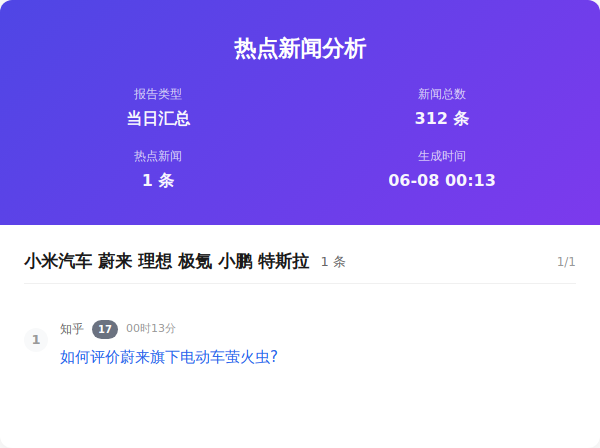
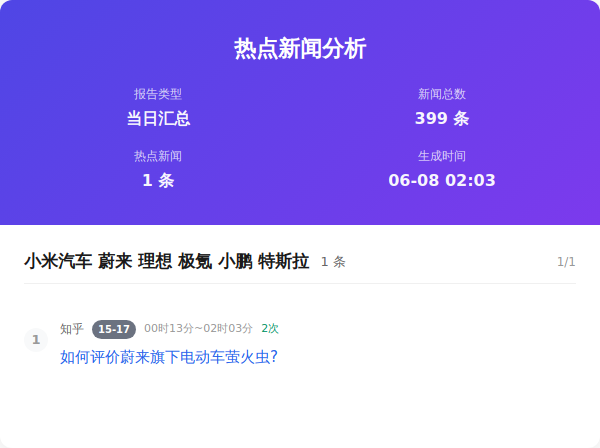
Auto update by GitHub Actions at Mon Jun  8 02:03:34 CST 2026

Changed region(s): [[0.18, 0.6875, 0.48, 0.7812], [0.75, 0.375, 0.81, 0.4375], [0.69, 0.25, 0.75, 0.2812]]

diff --git a/output/2026年06月08日/html/当日汇总.html b/output/2026年06月08日/html/当日汇总.html
@@ -357,7 +357,7 @@
                     </div>
                     <div class="info-item">
                         <span class="info-label">新闻总数</span>
-                        <span class="info-value">312 条</span>
+                        <span class="info-value">399 条</span>
                     </div>
                     <div class="info-item">
                         <span class="info-label">热点新闻</span>
@@ -365,7 +365,7 @@
                     </div>
                     <div class="info-item">
                         <span class="info-label">生成时间</span>
-                        <span class="info-value">06-08 00:13</span>
+                        <span class="info-value">06-08 02:03</span>
                     </div>
                 </div>
             </div>
@@ -383,7 +383,7 @@
                         <div class="news-number">1</div>
                         <div class="news-content">
                             <div class="news-header">
-                                <span class="source-name">知乎</span><span class="rank-num ">17</span><span class="time-info">00时13分</span>
+                                <span class="source-name">知乎</span><span class="rank-num ">15-17</span><span class="time-info">00时13分~02时03分</span><span class="count-info">2次</span>
                             </div>
                             <div class="news-title"><a href="https://www.zhihu.com/question/1897036483069712166" target="_blank" class="news-link">如何评价蔚来旗下电动车萤火虫?</a>
                             </div>

diff --git a/output/2026年06月08日/html/当前榜单汇总.html b/output/2026年06月08日/html/当前榜单汇总.html
@@ -365,7 +365,7 @@
                     </div>
                     <div class="info-item">
                         <span class="info-label">生成时间</span>
-                        <span class="info-value">06-08 00:13</span>
+                        <span class="info-value">06-08 02:03</span>
                     </div>
                 </div>
             </div>
@@ -383,7 +383,7 @@
                         <div class="news-number">1</div>
                         <div class="news-content">
                             <div class="news-header">
-                                <span class="source-name">知乎</span><span class="rank-num ">17</span><span class="time-info">00时13分</span>
+                                <span class="source-name">知乎</span><span class="rank-num ">15-17</span><span class="time-info">00时13分~02时03分</span><span class="count-info">2次</span>
                             </div>
                             <div class="news-title"><a href="https://www.zhihu.com/question/1897036483069712166" target="_blank" class="news-link">如何评价蔚来旗下电动车萤火虫?</a>
                             </div>